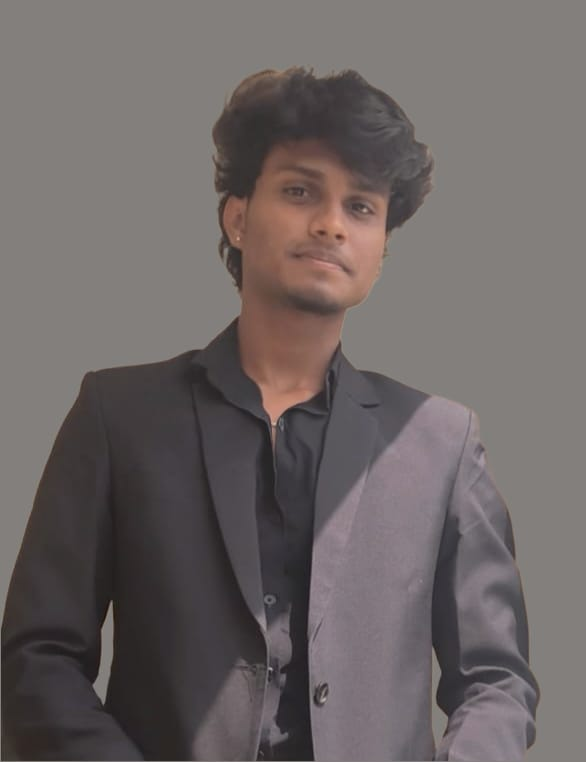
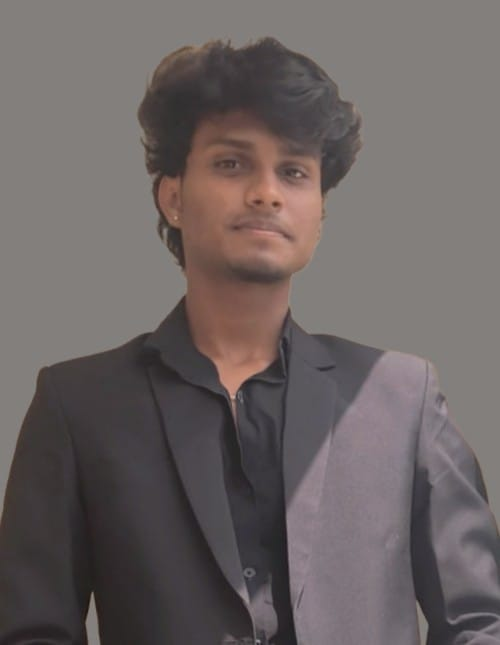
Admin Search , Sponsers

diff --git a/public/register.html b/public/register.html
@@ -15,6 +15,15 @@
         #dynamic-event-options label::before {
             content: none !important;
         }
+        
+        .hover-zoom-in {
+            transition: transform 0.3s ease;
+            cursor: pointer;
+        }
+        
+        .hover-zoom-in:hover {
+            transform: scale(1.1);
+        }
     </style>
 </head>
 
@@ -102,23 +111,26 @@
 
     <section class="hero">
         <div class="matrix-overlay"></div>
-        <div class="pill-badge">
+        <div class="pill-badge" style="margin-top: 250px;">
             INITIALIZE CONNECTION • XploitX-2026
         </div>
 
         <h1 class="glitch-title">JOIN THE RESISTANCE</h1>
 
-        <p style="text-align: justify; max-width: 800px; margin: 0 auto 20px auto;">
+        <p style="text-align: center; max-width: 800px; margin: 0 auto 20px auto;">
             Ready to unplug from the ordinary? Register now and become part of the digital revolution.
         </p>
     </section>
 
-    <div class="container">
-        <section class="register-section">
-            <h2 class="section-header">REGISTRATION TERMINAL</h2>
-            <p class="sub-header">Enter your credentials to access the simulation</p>
+    <div class="container" style="display: flex; justify-content: flex-start; margin-left: 0; max-width: 100%;">
+        <section class="register-section" style="text-align: left; width: 100%; padding-left: 0; display: flex; flex-wrap: wrap; gap: 30px; align-items: flex-start;">
+            <div style="flex: 2; min-width: 600px;">
+                <div style="max-width: 1000px; text-align: center;">
+                <h2 class="section-header" style="margin-bottom: 20px; text-align: center;">REGISTRATION TERMINAL</h2>
+                <p class="sub-header" style="margin-bottom: 40px; display: block; text-align: center;">Enter your credentials to access the simulation</p>
+            </div>
 
-            <div class="terminal-window" style="max-width: 1000px;">
+            <div class="terminal-window" style="max-width: 1000px; margin: 0; display: inline-block; width: 100%;">
                 <div class="terminal-bar">
                     <div class="dots">
                         <div class="dot red"></div>
@@ -239,9 +251,9 @@
 
             <!-- Payment Section (Inline) -->
             <div id="payment-modal"
-                style="display: none; width: 100%; margin-top: 40px; z-index: 10; justify-content: center; align-items: center; padding-bottom: 20px;">
+                style="display: none; width: 100%; margin-top: 40px; z-index: 10; justify-content: flex-start; align-items: flex-start; padding-bottom: 20px;">
                 <div
-                    style="background: rgba(0,0,0,0.8); border: 2px solid var(--neon-green); padding: 30px; border-radius: 10px; width: 100%; max-width: 500px; box-shadow: 0 0 30px rgba(0,255,65,0.15); text-align: center;">
+                    style="background: rgba(0,0,0,0.8); border: 2px solid var(--neon-green); padding: 30px; border-radius: 10px; width: 100%; max-width: 500px; margin-left: 0; box-shadow: 0 0 30px rgba(0,255,65,0.15); text-align: center;">
                     <h2 style="color: var(--neon-green); margin-bottom: 20px;">>_ PAYMENT GATEWAY</h2>
 
                     <!-- QR Code Section -->
@@ -275,112 +287,64 @@
                 </div>
             </div>
 
-            <p style="margin-top: 15px; font-size: 0.8rem; color: var(--dark-green);">
+            <p style="margin-top: 15px; font-size: 0.8rem; color: var(--dark-green); text-align: left;">
                 By registering, you accept the red pill and agree to our terms of the simulation.
             </p>
+            </div>
+            
+            <div class="registration-right" style="flex: 1; min-width: 300px; margin-top: 130px;">
+                <div class="sponsor-sidebar" style="padding: 20px; background: rgba(0,20,0,0.5); border: 1px solid var(--neon-green); border-radius: 10px;">
+                    <h3 style="color: var(--neon-yellow); text-align: center; margin-bottom: 20px;">> OUR SPONSORS</h3>
+                    
+                    <div style="display: grid; grid-template-columns: 1fr 1fr; gap: 15px; margin-bottom: 40px;">
+                        <div class="hover-zoom-in" style="background: white; padding: 15px; border-radius: 15px; aspect-ratio: 1 / 1; display: flex; align-items: center; justify-content: center; box-shadow: 0 0 10px rgba(0, 255, 65, 0.2);">
+                            <img src="Knowafest.png" alt="Knowafest" style="max-width: 100%; max-height: 100%; object-fit: contain;">
+                        </div>
+                        <div class="hover-zoom-in" style="background: white; padding: 15px; border-radius: 15px; aspect-ratio: 1 / 1; display: flex; align-items: center; justify-content: center; box-shadow: 0 0 10px rgba(0, 255, 65, 0.2);">
+                            <img src="Devnovate.jpg" alt="Devnovate" style="max-width: 100%; max-height: 100%; object-fit: contain;">
+                        </div>
+                        <div class="hover-zoom-in" style="background: white; padding: 15px; border-radius: 15px; aspect-ratio: 1 / 1; display: flex; align-items: center; justify-content: center; box-shadow: 0 0 10px rgba(0, 255, 65, 0.2);">
+                            <img src="Townscript.png" alt="Townscript" style="max-width: 100%; max-height: 100%; object-fit: contain;">
+                        </div>
+                        <div class="hover-zoom-in" style="background: white; padding: 15px; border-radius: 15px; aspect-ratio: 1 / 1; display: flex; align-items: center; justify-content: center; box-shadow: 0 0 10px rgba(0, 255, 65, 0.2);">
+                            <img src="K7 Security.jpeg" alt="K7 Security" style="max-width: 100%; max-height: 100%; object-fit: contain;">
+                        </div>
+                    </div>
 
-
+                    <h3 style="color: var(--neon-green); text-align: center; margin-bottom: 20px;">> OUR MOU PARTNERS</h3>
+                    <div style="display: grid; grid-template-columns: 1fr 1fr; gap: 15px;">
+                        <div class="hover-zoom-in" style="background: white; padding: 15px; border-radius: 15px; aspect-ratio: 1 / 1; display: flex; align-items: center; justify-content: center; box-shadow: 0 0 10px rgba(0, 255, 65, 0.2);">
+                            <img src="cyber sanskar.jpg" alt="Cyber Sanskar" style="max-width: 100%; max-height: 100%; object-fit: contain;">
+                        </div>
+                        <div class="hover-zoom-in" style="background: white; padding: 15px; border-radius: 15px; aspect-ratio: 1 / 1; display: flex; align-items: center; justify-content: center; box-shadow: 0 0 10px rgba(0, 255, 65, 0.2);">
+                            <img src="cyber heals.jpg" alt="Cyber Heals" style="max-width: 100%; max-height: 100%; object-fit: contain;">
+                        </div>
+                        <div class="hover-zoom-in" style="background: white; padding: 15px; border-radius: 15px; aspect-ratio: 1 / 1; display: flex; align-items: center; justify-content: center; box-shadow: 0 0 10px rgba(0, 255, 65, 0.2);">
+                            <img src="Junisys.png" alt="Junisys" style="max-width: 100%; max-height: 100%; object-fit: contain;">
+                        </div>
+                        <div class="hover-zoom-in" style="background: white; padding: 15px; border-radius: 15px; aspect-ratio: 1 / 1; display: flex; align-items: center; justify-content: center; box-shadow: 0 0 10px rgba(0, 255, 65, 0.2);">
+                            <img src="Rocheston.png" alt="Rocheston" style="max-width: 100%; max-height: 100%; object-fit: contain;">
+                        </div>
+                    </div>
+                </div>
+            </div>
         </section>
     </div>
 
-    <!-- Jointly Organized By Section -->
-    <section class="joint-organizer-section">
-        <h2 class="section-header">JOINTLY ORGANIZED BY</h2>
-
-        <div class="joint-organizer-container">
-            <!-- Ethical Hacking -->
-            <div class="org-unit">
-                <img src="Ethical Hacking Logo.jpeg" alt="Ethical Hacking" class="joint-logo">
-                <span class="joint-text">ETHICAL HACKING CLUB</span>
-            </div>
-
-            <!-- AND -->
-            <div class="joint-and">AND</div>
-
-            <!-- Hackshield -->
-            <div class="org-unit">
-                <img src="Hackshield.jpeg" alt="Hackshield" class="joint-logo joint-logo-square">
-                <span class="joint-text">HACKSHIELD (STUDENT ASSOCIATION)</span>
-            </div>
+    <div class="container">
+        <!-- SPONSOR CTA -->
+        <div class="sponsor-cta" style="text-align: center; margin: 60px auto 60px 48%; padding: 40px; background: rgba(0, 20, 0, 0.5); border: 1px solid var(--neon-green); border-radius: 10px; max-width: 800px; transform: translateX(-50%);">
+            <h3 class="text-yellow" style="color: var(--neon-yellow); margin-bottom: 15px; font-size: 1.5rem;">> BECOME A SPONSOR</h3>
+            <p style="margin-bottom: 30px; color: #eee; text-align: justify; max-width: 700px; margin-left: auto; margin-right: auto; line-height: 1.6;">
+                24 hrs capture the flag (CTF) — it is to amplify your impact. Download our sponsorship brochure to
+                explore the various tiers and benefits available for your organization.
+            </p>
+            <a href="sponsors.pdf" target="_blank" class="cta-btn" style="font-size: 1.1rem; padding: 15px 30px;"><i
+                    class="fas fa-file-pdf"></i> [ VIEW SPONSOR BROCHURE ]</a>
         </div>
-    </section>
-
-
-
-    <section class="partners-section info-section hidden-el">
-        <div class="container">
-            <h2 class="section-header">[ PARTNERS IN CRIME ]</h2>
-
-            <!-- MEDIA PARTNERS -->
-            <div class="partner-group">
-                <h3 class="partner-title">MEDIA PARTNER</h3>
-                <div class="partner-container">
-                    <a href="https://knowafest.com/" target="_blank" class="partner-link">
-                        <div class="partner-card">
-                            <img src="Knowafest.png" alt="Knowafest" class="partner-logo">
-                        </div>
-                    </a>
-
-                    <a href="https://devnovate.co/" target="_blank" class="partner-link">
-                        <div class="partner-card">
-                            <img src="Devnovate.jpg" alt="Devnovate" class="partner-logo">
-                        </div>
-                    </a>
-
-                    <a href="https://townscript.com/" target="_blank" class="partner-link">
-                        <div class="partner-card">
-                            <img src="Townscript.png" alt="Townscript" class="partner-logo">
-                        </div>
-                    </a>
-                </div>
-            </div>
-
-            <!-- MoU PARTNERS -->
-            <div class="partner-group">
-                <h3 class="partner-title">OUR MoU PARTNERS</h3>
-                <div class="partner-container">
-                    <a href="https://cybersanskar.com/" target="_blank" class="partner-link">
-                        <div class="partner-card">
-                            <img src="cyber sanskar.jpg" alt="Cyber Sanskar" class="partner-logo">
-                        </div>
-                    </a>
-
-                    <a href="https://cyberheals.com/" target="_blank" class="partner-link">
-                        <div class="partner-card">
-                            <img src="cyber heals.jpg" alt="Cyber Heals" class="partner-logo zoom-logo">
-                        </div>
-                    </a>
-
-                    <a href="https://junisys.net/" target="_blank" class="partner-link">
-                        <div class="partner-card">
-                            <img src="Junisys.png" alt="Junisys" class="partner-logo">
-                        </div>
-                    </a>
-
-                    <a href="https://rocheston.com/" target="_blank" class="partner-link">
-                        <div class="partner-card">
-                            <img src="Rocheston.png" alt="Rocheston" class="partner-logo">
-                        </div>
-                    </a>
-                </div>
-            </div>
-            <!-- SPONSOR CTA -->
-            <div class="sponsor-cta">
-                <h3 class="text-yellow" style="margin-bottom: 15px;">BECOME A SPONSOR</h3>
-                <p style="margin-bottom: 20px; color: #eee; text-align: justify;">
-                    24 hrs capture the flag (CTF) — it is to amplify your impact. Download our sponsorship
-                    brochure to
-                    explore the various
-                    tiers and benefits available for your organization.
-                </p>
-                <a href="sponsors.pdf" target="_blank" class="cta-btn" style="font-size: 1rem;"><i
-                        class="fas fa-file-pdf"></i> [ VIEW SPONSOR BROCHURE ]</a>
-            </div>
-        </div>
-    </section>
+    </div>
 
     <!-- Organizing Nodes Section (Coordinators) -->
-
 
     <footer class="organizing-nodes-section">
         <h2 class="nodes-header">>_ ORGANIZING NODES</h2>

diff --git a/public/admin.html b/public/admin.html
@@ -373,6 +373,11 @@
                     UNTRACKED ]</button>
             </div>
 
+            <!-- Center Side: Search Filter -->
+            <div style="display: flex; gap: 10px; flex-wrap: wrap; align-items: center;">
+                <input type="text" id="admin-search-input" placeholder="Team ID, Team Name ..." style="padding: 10px; width: 250px; background: rgba(0,20,0,0.8); border: 1px solid #00FF41; color: #eee; font-family: 'Share Tech Mono', monospace;" oninput="performSearch()">
+            </div>
+
             <!-- Right Side: Actions -->
             <div style="display: flex; gap: 10px; align-items: center;">
                 <button onclick="downloadCSV()"
@@ -634,6 +639,30 @@
                     filtered = window.teamsData.filter(t => parseInt(t.payment_verified, 10) === -1);
                 }
 
+                renderTable(filtered);
+            };
+
+            window.performSearch = function() {
+                if (!window.teamsData) return;
+                const query = document.getElementById('admin-search-input').value.toLowerCase().trim();
+                
+                // Clear active status filters visually if we want
+                // But simple enough is just to filter the whole dataset 
+                if (!query) {
+                    renderTable(window.teamsData);
+                    return;
+                }
+                
+                const filtered = window.teamsData.filter(t => {
+                    if (t.team_id && t.team_id.toLowerCase().includes(query)) return true;
+                    if (t.name && t.name.toLowerCase().includes(query)) return true;
+                    if (t.members) {
+                        for (let m of t.members) {
+                            if (m.name && m.name.toLowerCase().includes(query)) return true;
+                        }
+                    }
+                    return false;
+                });
                 renderTable(filtered);
             };
 

diff --git a/public/about.html b/public/about.html
@@ -32,7 +32,7 @@
 
         <div class="early-bird-msg"
             style="color: var(--neon-yellow); font-size: 0.8rem; margin-bottom: 5px; animation: blink 1s infinite;">⚠
-            EARLY BIRD OFFER TILL 20th FEB ⚠</div>
+            EARLY BIRD OFFER EXTENDED ⚠</div>
         <a href="register.html">[ REGISTER NOW ]</a>
     </div>
 
@@ -860,6 +860,18 @@
                         <a href="https://rocheston.com/" target="_blank" class="partner-link">
                             <div class="partner-card">
                                 <img src="Rocheston.png" alt="Rocheston" class="partner-logo">
+                            </div>
+                        </a>
+                    </div>
+                </div>
+
+                <!-- OUR SPONSORS -->
+                <div class="partner-group">
+                    <h3 class="partner-title">OUR SPONSORS</h3>
+                    <div class="partner-container">
+                        <a href="https://www.k7computing.com/" target="_blank" class="partner-link">
+                            <div class="partner-card">
+                                <img src="K7 Security.jpeg" alt="K7 Security" class="partner-logo">
                             </div>
                         </a>
                     </div>

diff --git a/public/index.html b/public/index.html
@@ -32,7 +32,7 @@
 
         <div class="early-bird-msg"
             style="color: var(--neon-yellow); font-size: 0.8rem; margin-bottom: 5px; animation: blink 1s infinite;">⚠
-            EARLY BIRD OFFER TILL 20th FEB ⚠</div>
+            EARLY BIRD OFFER EXTENDED ⚠</div>
         <a href="register.html">[ REGISTER NOW ]</a>
     </div>
 
@@ -425,6 +425,18 @@
                     <a href="https://rocheston.com/" target="_blank" class="partner-link">
                         <div class="partner-card">
                             <img src="Rocheston.png" alt="Rocheston" class="partner-logo">
+                        </div>
+                    </a>
+                </div>
+            </div>
+
+            <!-- OUR SPONSORS -->
+            <div class="partner-group">
+                <h3 class="partner-title">OUR SPONSORS</h3>
+                <div class="partner-container">
+                    <a href="https://www.k7computing.com/" target="_blank" class="partner-link">
+                        <div class="partner-card">
+                            <img src="K7 Security.jpeg" alt="K7 Security" class="partner-logo">
                         </div>
                     </a>
                 </div>

diff --git a/public/prizes.html b/public/prizes.html
@@ -32,7 +32,7 @@
 
         <div class="early-bird-msg"
             style="color: var(--neon-yellow); font-size: 0.8rem; margin-bottom: 5px; animation: blink 1s infinite;">⚠
-            EARLY BIRD OFFER TILL 20th FEB ⚠</div>
+            EARLY BIRD OFFER EXTENDED ⚠</div>
         <a href="register.html">[ REGISTER NOW ]</a>
     </div>
 
@@ -223,6 +223,18 @@
                     <a href="https://rocheston.com/" target="_blank" class="partner-link">
                         <div class="partner-card">
                             <img src="Rocheston.png" alt="Rocheston" class="partner-logo">
+                        </div>
+                    </a>
+                </div>
+            </div>
+
+            <!-- OUR SPONSORS -->
+            <div class="partner-group">
+                <h3 class="partner-title">OUR SPONSORS</h3>
+                <div class="partner-container">
+                    <a href="https://www.k7computing.com/" target="_blank" class="partner-link">
+                        <div class="partner-card">
+                            <img src="K7 Security.jpeg" alt="K7 Security" class="partner-logo">
                         </div>
                     </a>
                 </div>

diff --git a/public/rules.html b/public/rules.html
@@ -32,7 +32,7 @@
 
         <div class="early-bird-msg"
             style="color: var(--neon-yellow); font-size: 0.8rem; margin-bottom: 5px; animation: blink 1s infinite;">⚠
-            EARLY BIRD OFFER TILL 20th FEB ⚠</div>
+            EARLY BIRD OFFER EXTENDED ⚠</div>
         <a href="register.html">[ REGISTER NOW ]</a>
     </div>
 
@@ -373,6 +373,18 @@
                     <a href="https://rocheston.com/" target="_blank" class="partner-link">
                         <div class="partner-card">
                             <img src="Rocheston.png" alt="Rocheston" class="partner-logo">
+                        </div>
+                    </a>
+                </div>
+            </div>
+
+            <!-- OUR SPONSORS -->
+            <div class="partner-group">
+                <h3 class="partner-title">OUR SPONSORS</h3>
+                <div class="partner-container">
+                    <a href="https://www.k7computing.com/" target="_blank" class="partner-link">
+                        <div class="partner-card">
+                            <img src="K7 Security.jpeg" alt="K7 Security" class="partner-logo">
                         </div>
                     </a>
                 </div>
